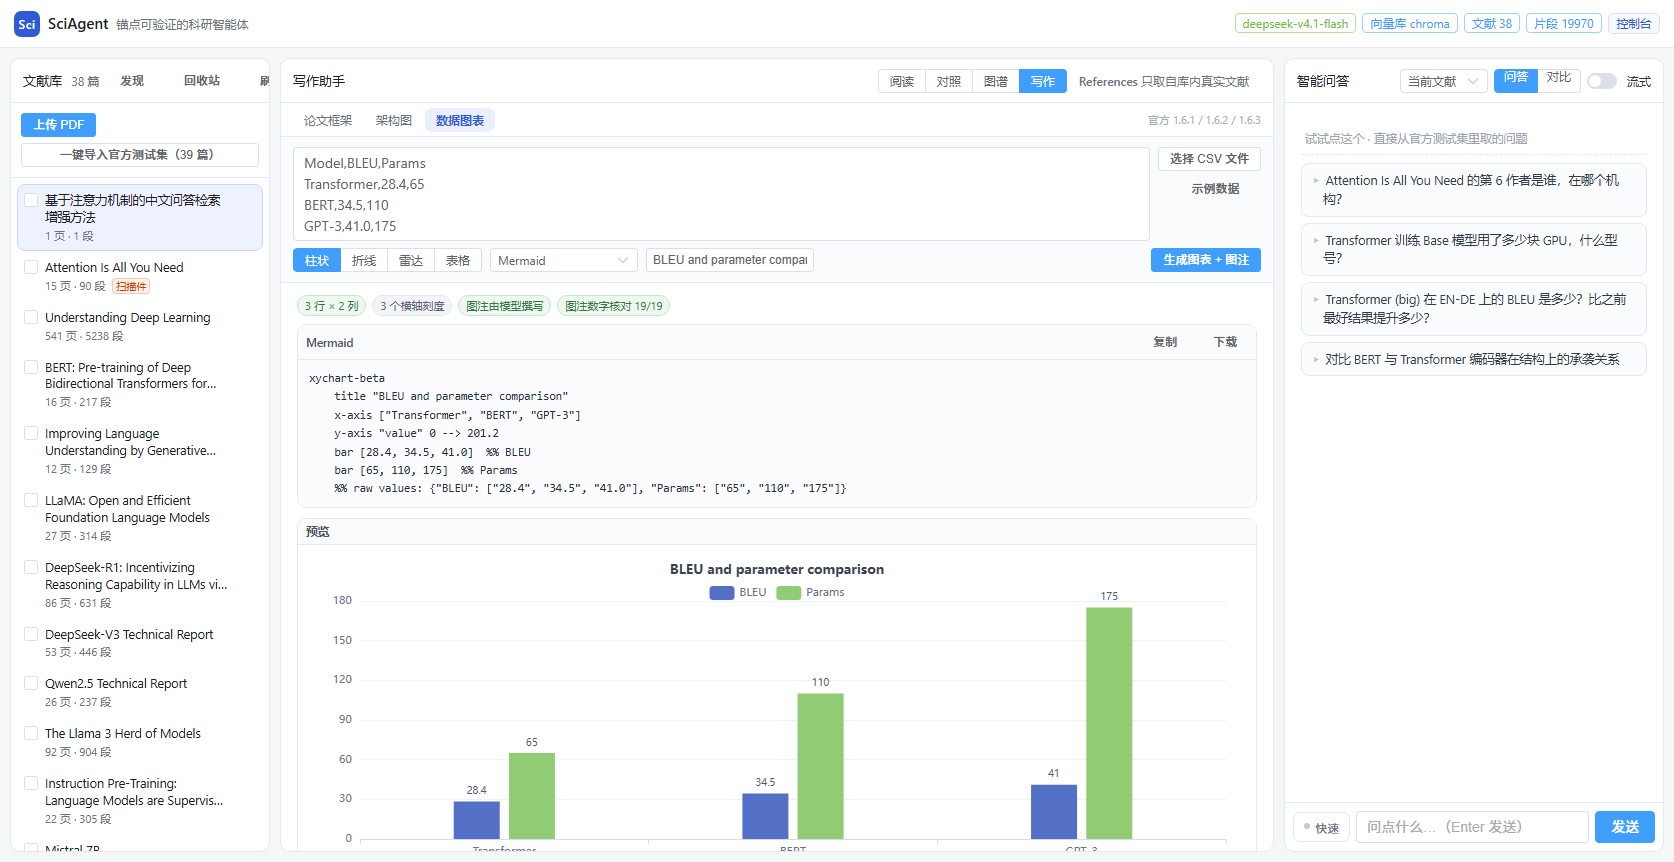
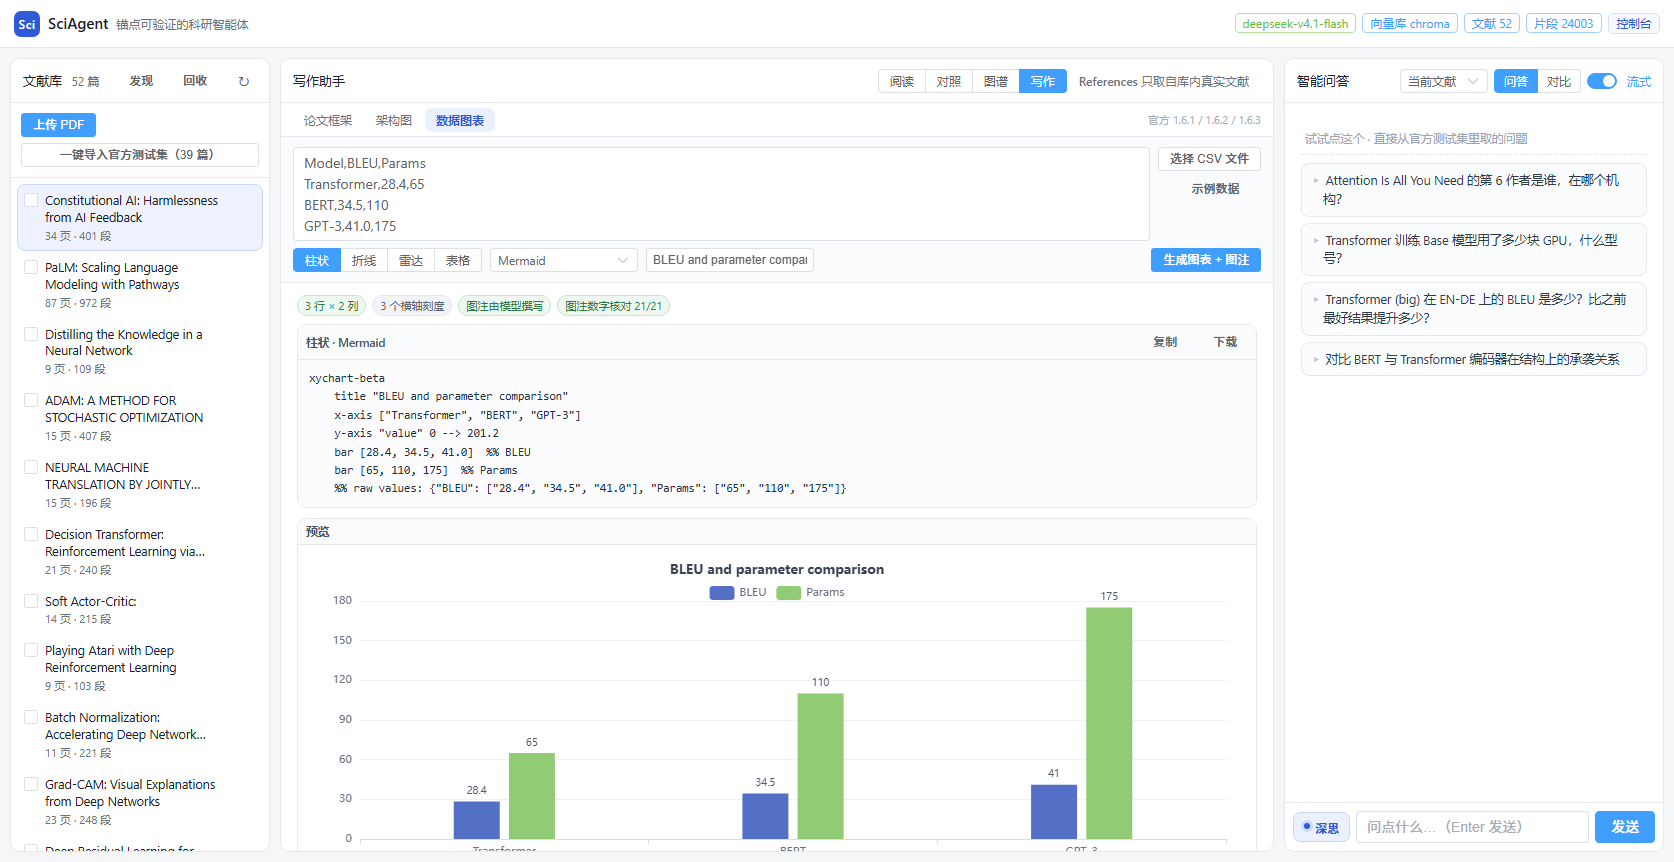
fix(web): 架构图预览按容器宽度初始化；图表区标明实际结果与参数过期
架构图：面板刚切过来 clientWidth 为 0 时 echarts 会按零尺寸建画布，整图压成左下角一小团；改为等布局稳定再 init，并在实例绑定旧 DOM 时重建。实测 canvas 943×396=容器尺寸。图表：代码区标题改显示实际结果（如“柱状 · TikZ”），切换类型/格式后提示需重新生成，避免“三个选项出图一样”的误读。

diff --git a/web/app.js b/web/app.js
@@ -249,7 +249,7 @@ const app = createApp({
         tLoading: false, tError: "", topology: null, tFmt: "mermaid", svg: "",
         csv: "",
         cKind: "bar", cFmt: "mermaid", cTitle: "实验结果",
-        cLoading: false, cError: "", chart: null, chartSvg: "",
+        cLoading: false, cError: "", chart: null, chartSvg: "", chartStale: false,
         sampleCsv: "Model,BLEU,Params\nTransformer,28.4,65\nBERT,34.5,110\nGPT-3,41.0,175",
       },
       sel: { visible: false, loading: false, src: "", zh: "", title: "划词翻译", style: {}, truncated: false, dragging: false, x: 0, y: 0 },
@@ -341,6 +341,15 @@ const app = createApp({
     chartFmtLabel() {
       const f = this.chartFmts.find((x) => x.k === this.wv.cFmt);
       return f ? f.label : "图表代码";
+    },
+    // 代码区标题必须描述"页面上这份结果"，而不是当前下拉框：
+    // 切换类型/格式后旧结果还在，用下拉值当标题会出现"标题 Mermaid、正文 TikZ"的错位。
+    chartResultLabel() {
+      const c = this.wv.chart;
+      if (!c) return "图表代码";
+      const kind = { bar: "柱状", line: "折线", radar: "雷达", table: "表格" }[c.kind] || c.kind;
+      const f = (CHART_FMTS[c.kind] || []).find((x) => x.k === c.format);
+      return `${kind} · ${f ? f.label : c.format}`;
     },
   },
   mounted() {
@@ -1869,10 +1878,25 @@ const app = createApp({
     /// 用 ECharts 自己画分层架构图：按 group 分行、行内均分。
     /// 不用 Mermaid 渲染预览的原因：它的 dagre 布局把流水线拉成一根竖柱，
     /// 在写作视图这 700px 宽的栏里缩到看不清；而 TikZ / DOT 的排版又需要外部工具。
-    renderTopoChart() {
+    renderTopoChart(retry = 0) {
       const t = this.wv.topology;
       const el = this.$refs.topoChart;
       if (!t || !el || !window.echarts) return;
+
+      // 先给容器一个高度，再确认它有真实宽度。面板刚切过来/刚生成时
+      // clientWidth 可能还是 0，此时 echarts.init 出来的 canvas 只有几十像素，
+      // 整张图会被压成左下角一小团（实测截图）。等布局稳定再画，最多重试 6 次。
+      el.style.height = `${Math.max(260, t.groups.length * 122 + 30)}px`;
+      const availW = el.clientWidth;
+      if (availW < 40) {
+        if (retry < 6) setTimeout(() => this.renderTopoChart(retry + 1), 80);
+        return;
+      }
+      // 面板被 v-if 销毁重建后，旧实例绑在已移除的 DOM 上，必须重建
+      if (_topoChart && _topoChart.getDom() !== el) {
+        _topoChart.dispose();
+        _topoChart = null;
+      }
 
       const byGroup = new Map(t.groups.map((g) => [g, []]));
       t.nodes.forEach((n) => {
@@ -1890,8 +1914,11 @@ const app = createApp({
       });
 
       el.style.height = `${Math.max(260, t.groups.length * ROW_H + 30)}px`;
-      if (!_topoChart) _topoChart = window.echarts.init(el, null, { renderer: "canvas" });
-      _topoChart.resize();
+      if (!_topoChart) {
+        _topoChart = window.echarts.init(el, null, { renderer: "canvas", width: availW });
+      } else {
+        _topoChart.resize({ width: availW });
+      }
 
       // 节点类型 → 填充/描边，与 TikZ、Matplotlib 两套模板同一组配色
       const PALETTE = {
@@ -1949,6 +1976,15 @@ const app = createApp({
       const list = CHART_FMTS[this.wv.cKind] || [];
       if (!list.some((f) => f.k === this.wv.cFmt)) this.wv.cFmt = list[0] ? list[0].k : "latex";
     },
+    onChartKindChange() {
+      this.syncChartFmt();
+      this.markChartStale();
+    },
+    markChartStale() {
+      // 换类型/格式不会自动重算（一次生成要调模型写图注，不该偷偷花钱），
+      // 但旧结果留在页面上、标题却跟着下拉变，用户会以为三个选项出图一样。
+      if (this.wv.chart) this.wv.chartStale = true;
+    },
 
     onCsvFile(e) {
       const f = e.target.files && e.target.files[0];
@@ -1990,6 +2026,7 @@ const app = createApp({
         } else {
           this.wv.chart = r;
           this.wv.chartSvg = "";
+          this.wv.chartStale = false;
           await this.$nextTick();
           this.renderChartChart();
         }

diff --git a/web/index.html b/web/index.html
@@ -431,13 +431,13 @@
           </div>
           <div class="write-actions">
             <div class="chart-opts">
-              <el-radio-group v-model="wv.cKind" size="small" @change="syncChartFmt">
+              <el-radio-group v-model="wv.cKind" size="small" @change="onChartKindChange">
                 <el-radio-button label="bar">柱状</el-radio-button>
                 <el-radio-button label="line">折线</el-radio-button>
                 <el-radio-button label="radar">雷达</el-radio-button>
                 <el-radio-button label="table">表格</el-radio-button>
               </el-radio-group>
-              <el-select v-model="wv.cFmt" size="small" class="fmt-select">
+              <el-select v-model="wv.cFmt" size="small" class="fmt-select" @change="markChartStale">
                 <el-option v-for="f in chartFmts" :key="f.k" :label="f.label" :value="f.k"></el-option>
               </el-select>
               <el-input v-model="wv.cTitle" size="small" class="title-input"
@@ -468,12 +468,13 @@
                     :class="wv.chart.caption.checks.foreign.length ? 'bad' : 'ok'">
                 图注数字核对 {{ wv.chart.caption.checks.verified }}/{{ wv.chart.caption.checks.checked }}
               </span>
+              <span class="wc-item bad" v-if="wv.chartStale">参数已改，点「生成图表 + 图注」更新</span>
             </div>
 
             <div class="viz-split">
               <div class="viz-pane">
                 <div class="viz-bar">
-                  <span class="viz-bar-t">{{ chartFmtLabel }}</span>
+                  <span class="viz-bar-t">{{ chartResultLabel }}</span>
                   <div class="viz-acts">
                     <el-button size="small" text @click="copyText(wv.chart.code, '图表代码')">复制</el-button>
                     <el-button size="small" text @click="downloadText(wv.chart.code, 'figure', wv.chart.format)">下载</el-button>
